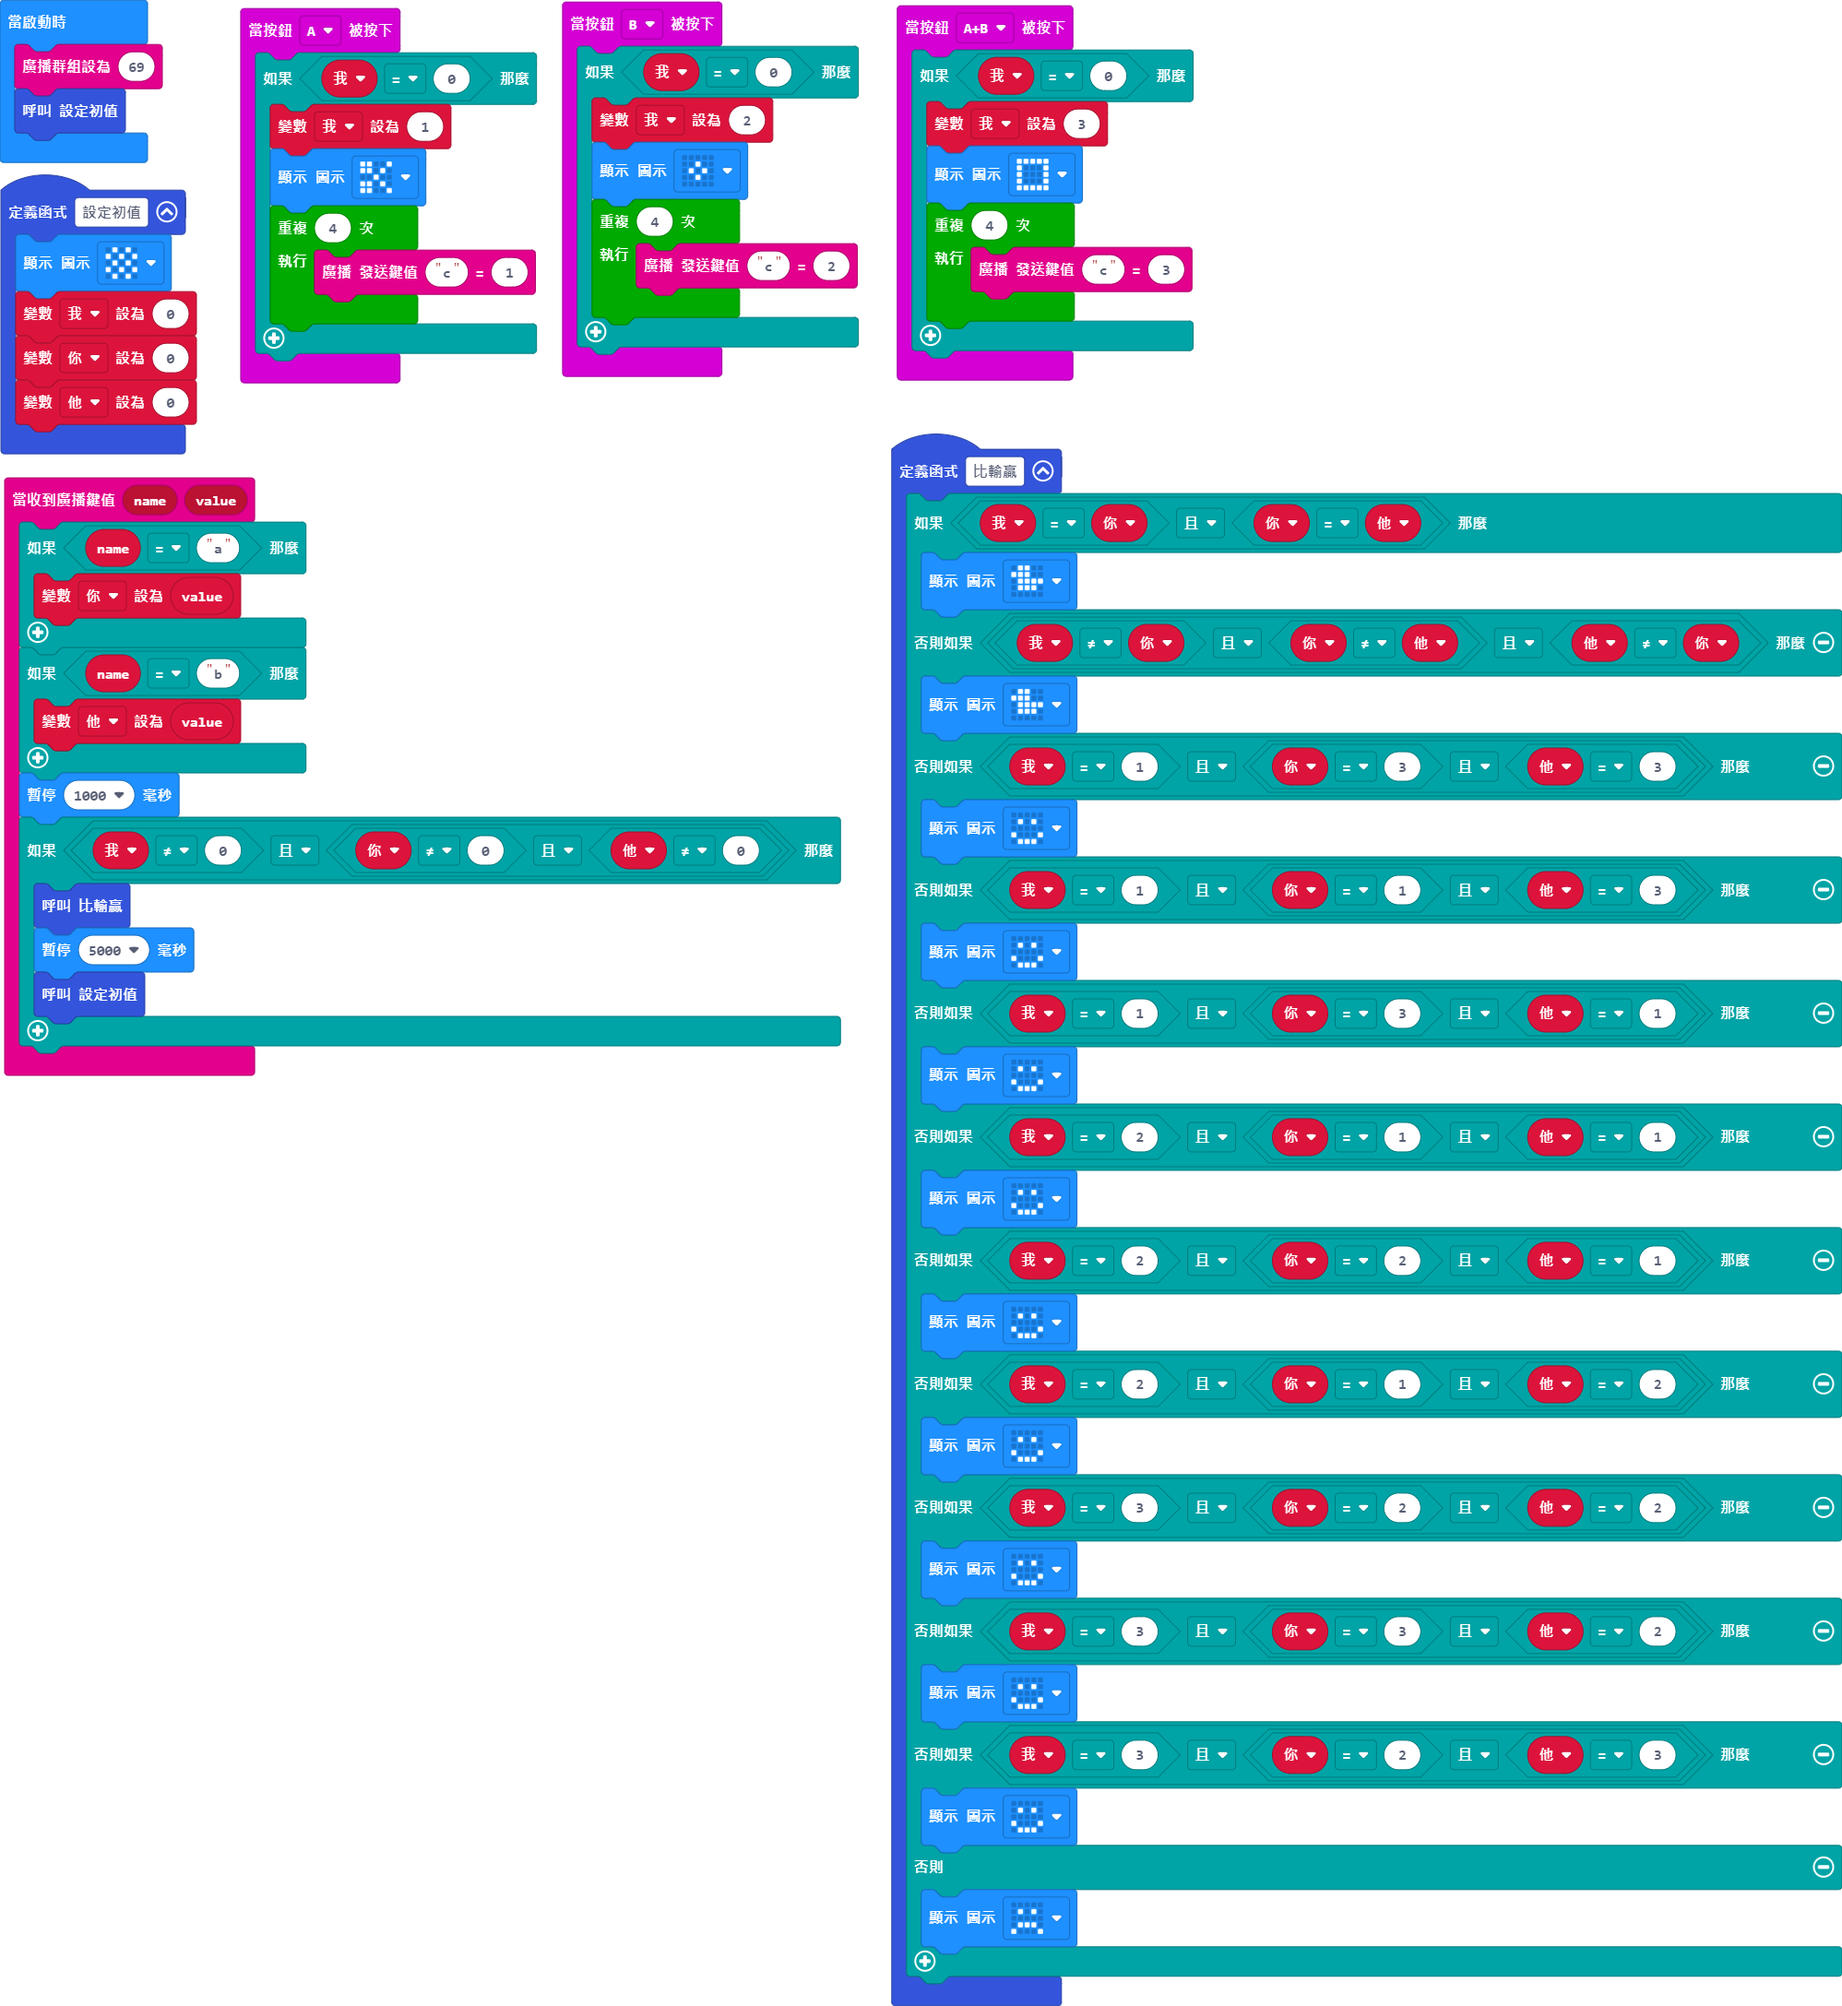
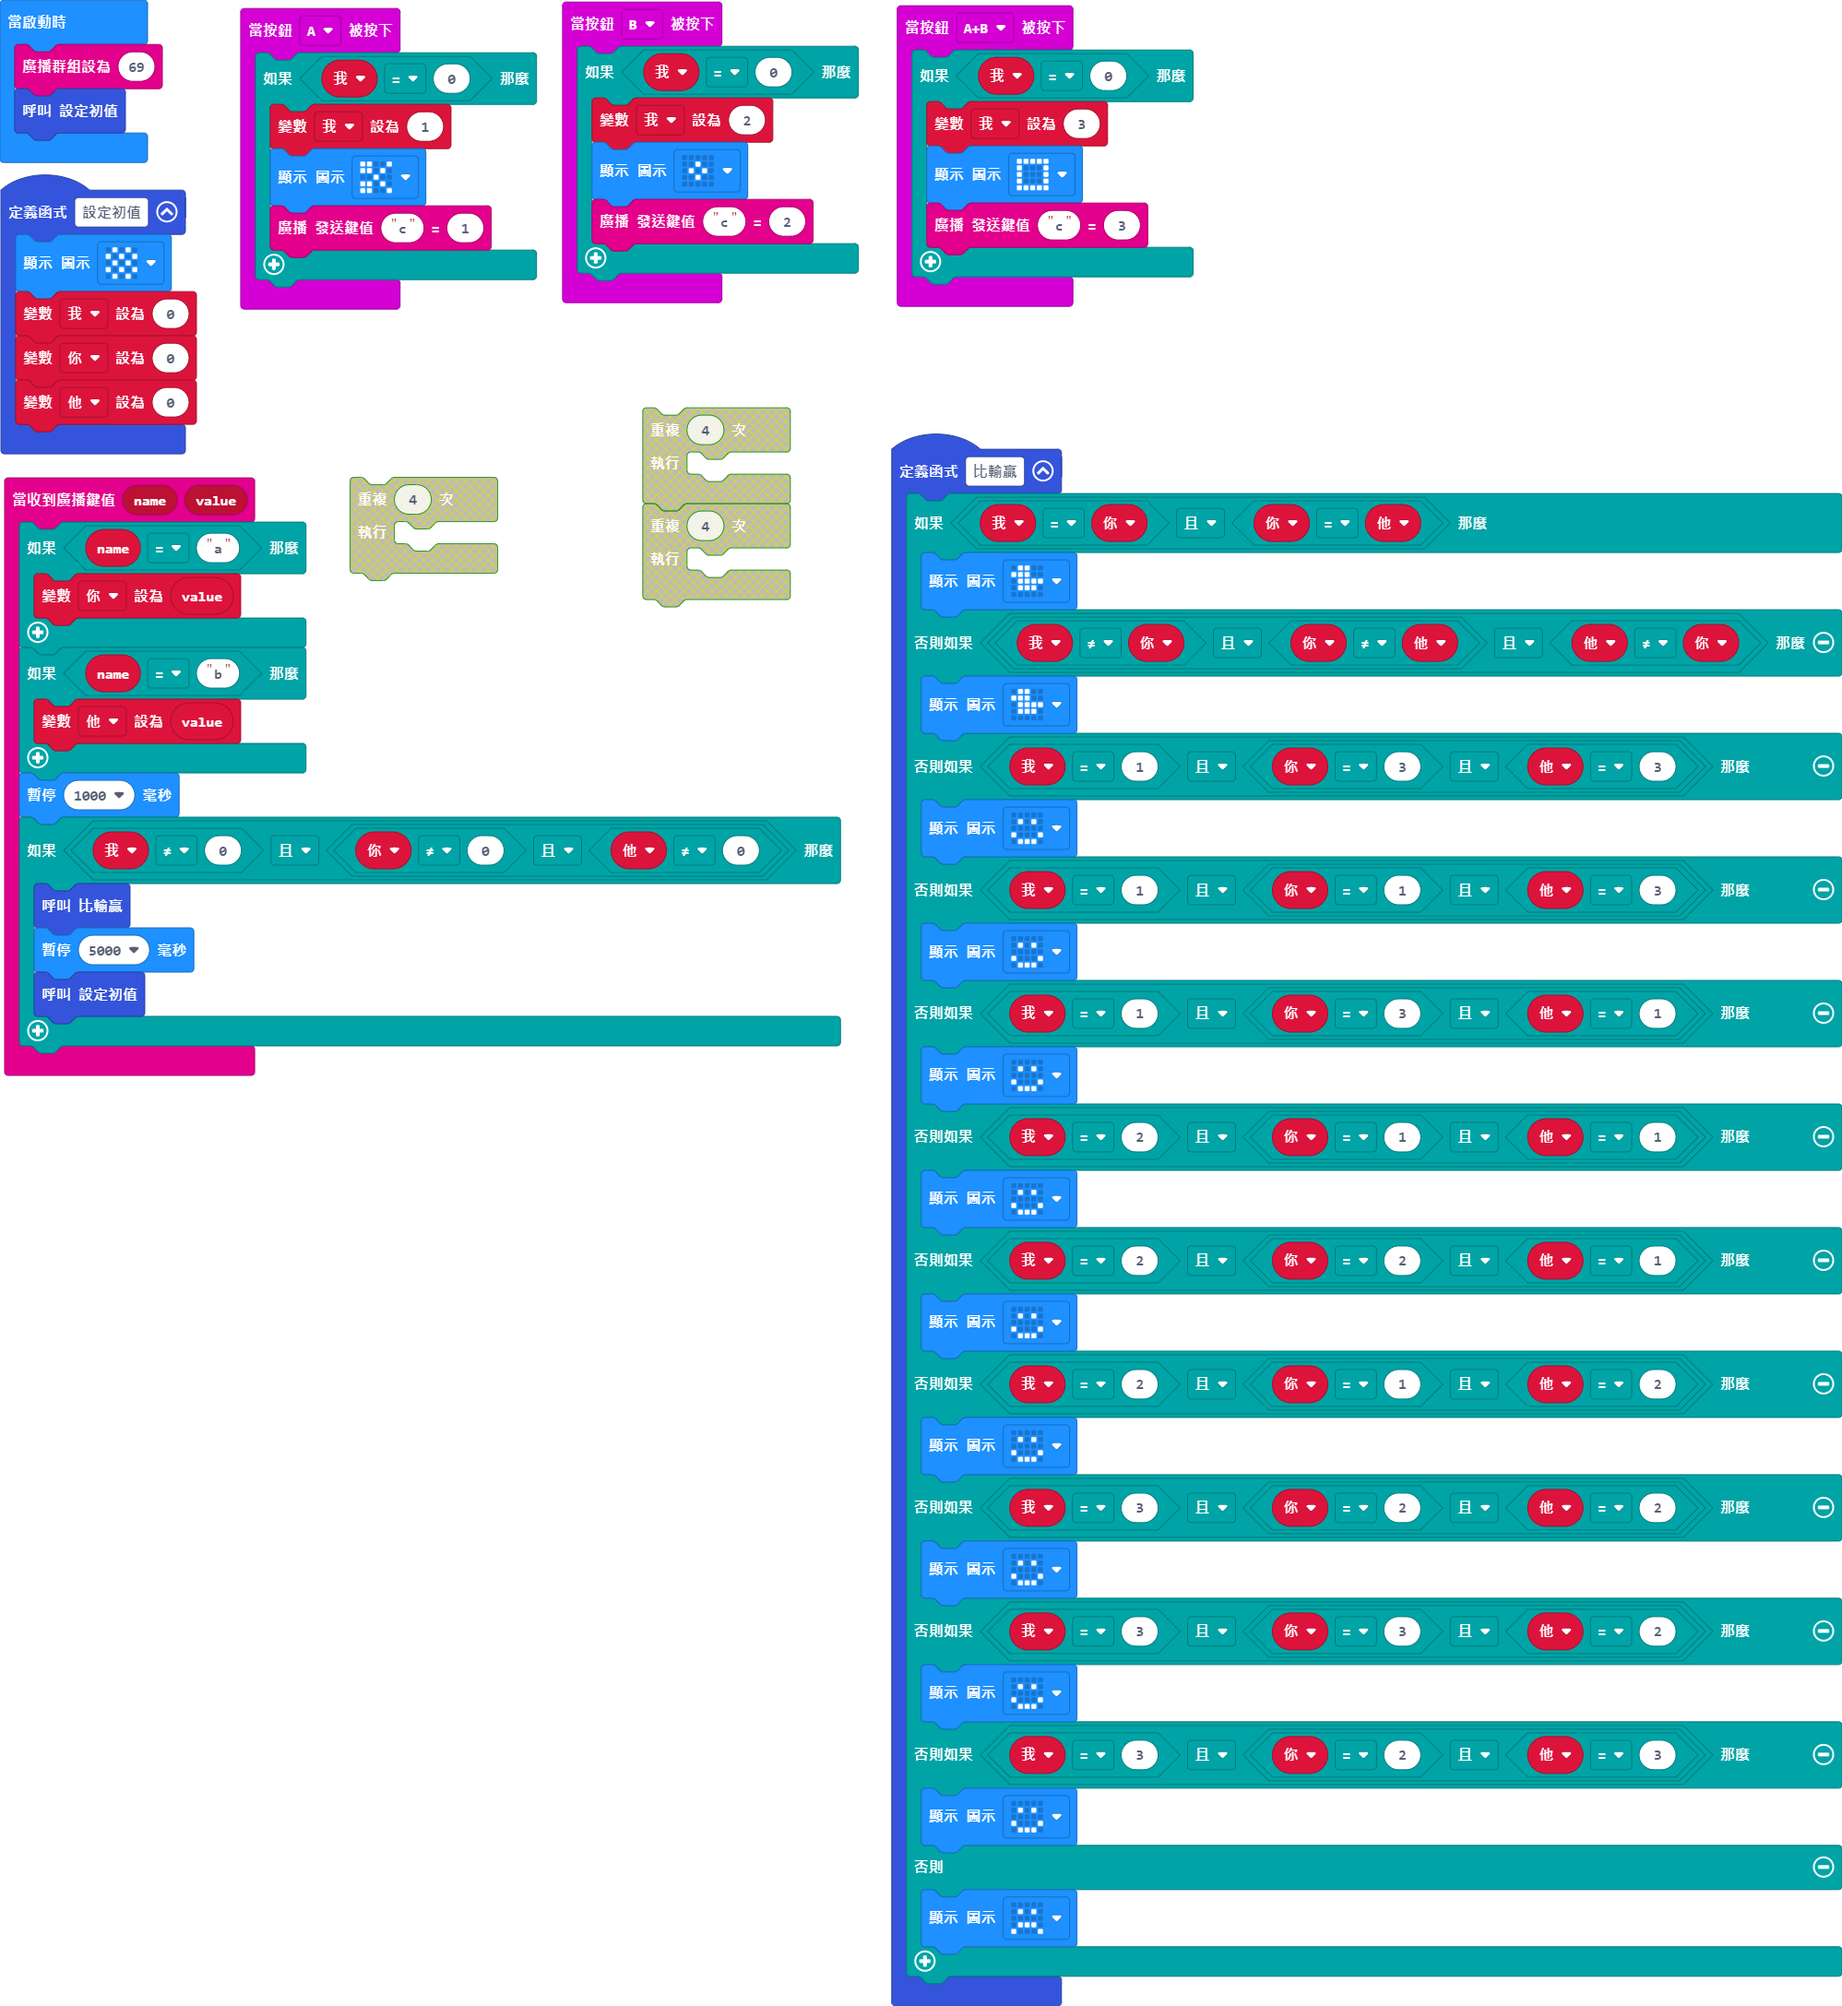
更新 main.blocks, main.ts

Changed region(s): [[0.1242, 0.0924, 0.652, 0.308]]

diff --git a/main.ts b/main.ts
@@ -2,9 +2,7 @@ input.onButtonPressed(Button.A, function () {
     if (我 == 0) {
         我 = 1
         basic.showIcon(IconNames.Scissors)
-        for (let index = 0; index < 4; index++) {
-            radio.sendValue("c", 1)
-        }
+        radio.sendValue("c", 1)
     }
 })
 function 設定初值 () {
@@ -44,18 +42,14 @@ input.onButtonPressed(Button.AB, function () {
     if (我 == 0) {
         我 = 3
         basic.showIcon(IconNames.Square)
-        for (let index = 0; index < 4; index++) {
-            radio.sendValue("c", 3)
-        }
+        radio.sendValue("c", 3)
     }
 })
 input.onButtonPressed(Button.B, function () {
     if (我 == 0) {
         我 = 2
         basic.showIcon(IconNames.SmallDiamond)
-        for (let index = 0; index < 4; index++) {
-            radio.sendValue("c", 2)
-        }
+        radio.sendValue("c", 2)
     }
 })
 radio.onReceivedValue(function (name, value) {
